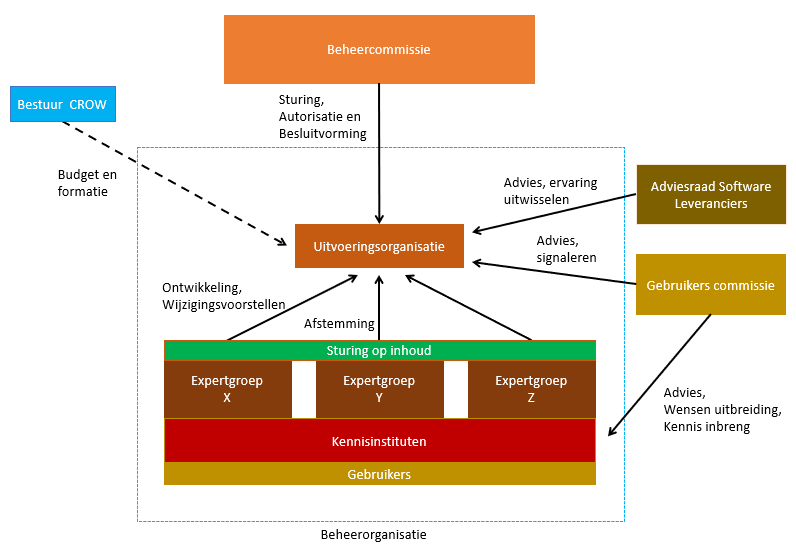
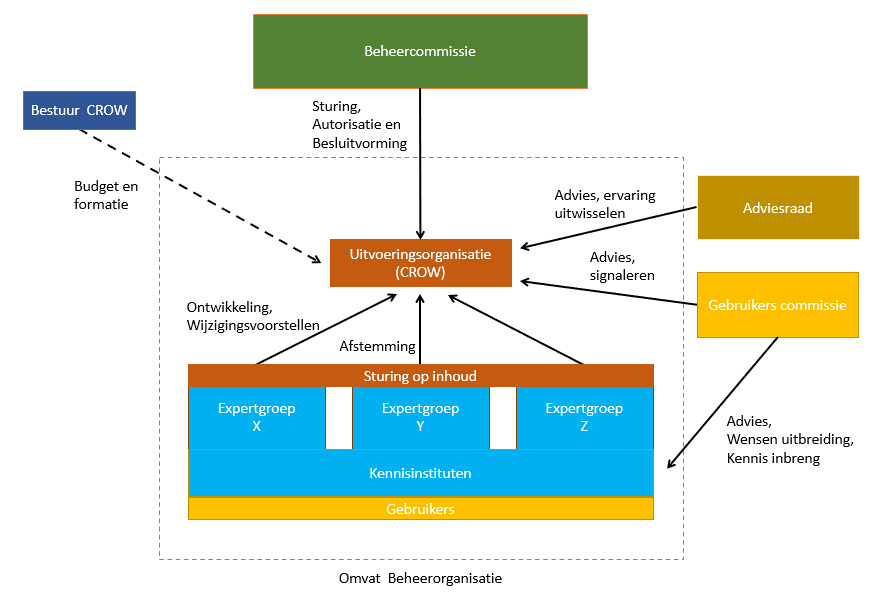
Nieuwe versie voor beheercommissie ter beoordeling

diff --git a/ontwikkeling/beheerplan/hoofdstukken/h5.md b/ontwikkeling/beheerplan/hoofdstukken/h5.md
@@ -6,41 +6,49 @@ Voor het beheer van IMBOR en de ontwikkeling daarvan hebben we vaastgelegd dat d
 
 Om tot een nieuwe versie te komen worden er voorstellen geformuleerd in de vorm van Issue's. Deze komen in de beheeromgeving terecht en leiden tot een aangepaste werkversie van IMBOR. De issue's worden open gepubliceerd en staan ook open voor input. De beheerorganisatie is verantwoordelijk voor het bundelen van relevante issue's en deze te implementeren in het model. We spreken van een nieuwe formele release als alle wijzigingen in het model ook via de route van vaststelling zijn gegaan. Hoe deze route in zijn werk gaat staat helder omschreven in de volgende paragraaf bij de wijzigingsprocedure.
 
-Het streven is om geregeld een nieuwe formele versie van IMBOR vast te stellen waar de stakeholders mee kunnen werken. Dat kan een grote wijziging (major release) of indien belangenswaardig een kleinere wijziging (minor release) zijn. Een nieuwe versie van IMBOR betekent:
+Het streven is om geregeld een nieuwe formele versie van IMBOR vast te stellen waar de stakeholders mee kunnen werken. Dat kan een grote wijziging (major release) of indien belangenswaardig een kleinere wijziging (minor release) zijn. De timing van de releases wordt duidelijk gecommuniceerd en zo veel mogelijk afgestemd op de releasekalenders van de aanpalende standaarden. Een volledig gelijktrekken van de lease kalender is gezien de omvang een utopie en ook niet nodig. Een nieuwe versie van IMBOR betekent:
 
 * Dat issues worden verwerkt in de beheeromgeving van IMBOR (werkversie); 
 * Deze issue's inzichtelijk en openbaar zijn;
 * De formele wijzigingsprocedure is doorlopen;  
-* De nieuwe versie van IMBOR wordt wordt gepubliceerd; 
-* Voorafgaand aan publicatie wordt een open consultatieronde wordt gehouden;
+* De nieuwe versie van IMBOR wordt gepubliceerd; 
+* Voorafgaand aan publicatie een open consultatieronde wordt gehouden;
 * Alle technische documentatie is bijgewerkt;
 * De versie wordt aangeboden in de gecommuniceerde uitgifte vormen.
 
-## Uitvoering: wijzigingsprocedure
-Het beheer van IMBOR is onderhevig aan wijzigingen. Om alle verzoeken tot wijzigingen te registreren en te behandelen en eventueel door te voeren zijn er procedures opgesteld. Deze procedures doen recht aan een open en transparant versiebeleid. Onderstaand schema schetst op hoofdlijnen de manier waarop wijzigingen binnen komen, worden gecategoriseerd en vervolgens worden verwerkt in een nieuwe versie van IMBOR. In onderstaand schema is stapsgewijs weergegeven hoe dit proces er uit ziet.
+## Uitvoering: beheeractiviteiten
+Het beheer van IMBOR is onderhevig aan wijzigingen. Om alle verzoeken tot wijzigingen te registreren en te behandelen en eventueel door te voeren zijn er procedures opgesteld. Deze procedures doen recht aan een open en transparant versiebeleid. Onderstaand schema schetst op hoofdlijnen de primaire beheeractiviteiten waarbinnen de procedures vorm gegeven worden en die leiden tot een nieuwe versie van IMBOR.
 
-![Wijzigingsprocedure IMBOR](hoofdstukken/media/Wijzigingsprocedure2.png "Overzicht van de route die een wijzigingsverzoek af legt")
+![Primaire beheeractiviteiten IMBOR](hoofdstukken/media/Wijzigingsprocedure3.png "De 5 stappen die leiden tot een wijziging in IMBOR")
 
-### Formuleren en registreren
+<aside class="note" title="procedure schema's">
+Er zijn van de 5 primaire beheeractiviteiten ook procedure schema's gemaakt. Het voorstel is om deze in de bijlagen op te nemen.
+</aside>
 
+De bedoeling is dat alle stakeholders een voorstel tot wijziging kunnen indienen. Dat betekent alle groepen en vertegenwoordigers in de geschetste beheerorganisatie. Het in te dienen voorstel draagt bij aan een ontwikkeling of innovatie of verbetering van IMBOR. Dat kan dus ook een voorstel zijn die niet inhoudelijk is maar bijvoorbeeld organisatorisch van aard of een wijziging in de documentatie.
+
+### Registreren Issue's
+
+<!--
 <b>Wijzigingsvoorstel formuleren/indienen</b>
 De bedoeling is dat alle stakeholders een voorstel tot wijziging kunnen indienen. Dat betekent alle groepen en vertegenwoordigers in de geschetste beheerorganisatie. Het in te dienen voorstel draagt bij aan een ontwikkeling of innovatie of verbetering van IMBOR. Dat kan dus ook een voorstel zijn die niet inhoudelijk is maar bijvoorbeeld organisatorisch van aard of een wijziging in de documentatie.
 
-Het goed formuleren van het wijzigingsverzoek helpt bij de beoordeling en eventuele implementatie van het voorstel. De service manager van de uitvoeringsorganisatie kan hier bij helpen. 
+Het goed formuleren van het wijzigingsverzoek helpt bij de beoordeling en eventuele implementatie van het voorstel. De service manager van de uitvoeringsorganisatie kan hier bij helpen.-->
 
-<b>Registratie in GitHub</b>
-Alle voorstellen tot wijziging worden in de ontwikkelomgeving GitHub geregistreerd. Dit is een ontwikkelomgeving dat wordt beheerd door het CROW (specifiek de IMBOR architect). Alle voorstellen worden hier als Issue in geregistreerd en gelabeld. De registratie van meldingen die via mail zijn binnen gekomen of via de website zijn ingediend worden door de service manager ingevoerd en opgevolgd. In gevallen dat een indiener beschikking heeft over een GitHub account en autorisatie heeft kan deze de issues rechtstreeks in GitHub indienen. Als bij registratie onduidelijkheid is over de beschrijving kan verduidelijking worden gevraagd aan de indiener.
+#### Wijzigingen indienen  
+Alle voorstellen tot wijziging worden in de ontwikkelomgeving GitHub geregistreerd. Dit is een ontwikkelomgeving dat wordt beheerd door het CROW (specifiek de IMBOR architect). Alle voorstellen worden hier als Issue in geregistreerd en gelabeld. De registratie van meldingen die via mail zijn binnen gekomen of via de website zijn ingediend worden door de service manager ingevoerd en opgevolgd. In gevallen dat een indiener beschikking heeft over een GitHub account en autorisatie heeft kan deze de issues rechtstreeks in GitHub indienen. 
 
 Een handleiding van hoe GitHub kan worden gebruikt is beschreven in Bijlage 1
 
-<b>Impact beoordelen/toekennen</b>
-Van elk Issue wordt de impact beoordeeld. De impact kent drie categorieën: Laag, Middel, Hoog. De beoordeling van de impact gebeurt door de uitvoeringsorganisatie. Na de beoordeling en juiste labeling van het issue gaat het verder de procedure in. De indiener krijgt van de uitvoeringsorganisatie een korte terugkoppeling en motivering op de prioritering en de impact. Hieronder kort de richtlijnen voor prioritering.
+#### Vraag analyseren  
+Er is een eerste analyse van het verzoek tot wijziging nodig. Als bij registratie onduidelijkheid is over de beschrijving kan verduidelijking worden gevraagd aan de indiener. Als helder is wat er met het verzoek aan wijziging wordt bedoelt zal het als Issue worden geregistreerd en opgepakt ten behoeve van een beoordeling: Het wordt opgepakt in de volgende fase of het issue wordt verworpen. In alle gevallen wordt de indiener op de hoogte gebracht. 
 
-Het is ook mogelijk dat Issue's een categorie of label krijgen die niet direct van invloed is op het IMBOR model. Dit is bijvoorbeeld als er een (implementatie)vraag komt of als er iets in de documentatie moet worden aangepast. Ook deze "issue's" worden wel geregistreerd zodat er een kennis database ontstaat. 
+### Beoordelen en clusteren
 
-#### Impact bepalen
+#### Impact analyse op verzoek tot wijziging
+Van elk Issue wordt de impact beoordeeld. De impact kent drie categorieën: Laag, Middel, Hoog. De beoordeling van de impact gebeurt door de uitvoeringsorganisatie. Na de beoordeling en juiste labeling van het issue gaat het verder de procedure in. De indiener krijgt van de uitvoeringsorganisatie een korte terugkoppeling en motivering op de impact. Hieronder kort de richtlijnen voor bepalen van de impact. Als er twijfel over de impact ontstaat wordt er door de uitvoeringsorganisatie ge-escaleerd naar benodigde andere expertise.
 
-Via [GitHub issues](https://github.com/Stichting-CROW/imbor/issues) worden opmerkingen en suggesties verzameld voor het verbeteren van het IMBOR. Wanneer issues binnenkomen worden deze gelabeld (inhoudelijk of modelmatig, vakdiscipline, bug of wens) en wordt de impact bepaald:</li>
+Via [GitHub issues](https://github.com/Stichting-CROW/imbor/issues) worden dus opmerkingen en suggesties verzameld voor het verbeteren van het IMBOR. De impact wordt  door een aantal kenmerken bepaald:</li>
    <ul><li>	<b>Impact 1 Laag:</b> te verwerken door de uitvoeringsorganisatie IMBOR. Dit betreft bijvoorbeeld:</li>
        <ul><li>	Aanvullen/aanscherpen van vocabulair (definities van objecttypen en attributen)</li>
        <li>	Wijzigingen in het specifiek toekennen van domeinwaarden aan objecttypes</li>
@@ -55,7 +63,7 @@ Via [GitHub issues](https://github.com/Stichting-CROW/imbor/issues) worden opmer
        <li>	 Wijzigen van bestaande minimale datasets</li>
        <li>	Wijzigingen in de bestaande relaties met andere modellen</li>
        <li>	Toevoegen van nieuwe minimale datasets</li></ul>
-   <li>	<b>Impact 3 Hoog:</b> te bespreken met een Expertcommissie of in de adviescommissie software leveranciers en vervolgens (indien nodig bespreken en prioriteren) in de beheercommissie IMBOR. Dit betreft bijvoorbeeld:</li>
+   <li>	<b>Impact 3 Hoog:</b> te bespreken met een Expertcommissie en vervolgens (indien nodig bespreken en prioriteren) in de beheercommissie IMBOR. Dit betreft bijvoorbeeld:</li>
        <ul><li>	Nieuwe vakdisciplines</li>
        <li>	Aanvullingen of wijzigingen in de structuur of de modelleringsprincipes</li>
        <li>	Nieuwe relaties met andere modellen</li>
@@ -68,11 +76,22 @@ Via [GitHub issues](https://github.com/Stichting-CROW/imbor/issues) worden opmer
           <li>	Kwaliteitsbeleid</li>
           <li>	Wijzigingsbeleid en -procedures</li></ul></ul></ul>
 
-Het labelen en toekennen van impact gebeurd door de uitvoeringsorganisatie. Hier wordt ook altijd terugkoppeling en motivatie over gegeven naar de indiener. Als er twijfel over de impact ontstaat wordt er door de uitvoeringsorganisatie ge-escaleerd naar benodigde andere expertise.
+#### labelen van Issue's
+Wanneer issues binnenkomen en de impact is bepaald worden deze gelabeld (inhoudelijk of modelmatig, vakdiscipline, bug of wens) Het labelen keeft vooral een functie voor de uitvoeringsorganisatie en ondersteunt het operationele proces van verwerken en clusteren van Issue's die gezamelijk worden opgepakt. Hier wordt ook altijd terugkoppeling en motivatie over gegeven naar de indiener.
 
-#### Feedbackprocedure
-Op verschillende manieren krijgen de betrokkenen feedback op de wijzigingen die zijn ingediend:
+Het is ook mogelijk dat Issue's een categorie of label krijgen die niet direct van invloed is op het IMBOR model. Dit is bijvoorbeeld als er een (implementatie)vraag komt of als er iets in de documentatie moet worden aangepast. Ook deze "issue's" worden wel geregistreerd zodat er een kennis database ontstaat. 
 
+#### groeperen van Issue's
+Voor het operationele proces kan het handig zijn om sommige issue's te groeperen en te clusteren. Het is voor te stellen dat er verzoeken worden ind=gediend die elkaar raken of tegen spreken. het groeperen geeft de uitvoeringsorganisatie het overzicht om de verzoeken op een gestructureerde manier aan te pakken. Groeperen kan ten behoeve van:
+* Dezelfde vakdiscipline;
+* Projectmatige aanpak;
+* Inhoud van dezelfde Release;
+* etc. 
+
+### Reviewen commissies tot voorstel
+
+#### Reviewen van Issue's
+Alle Issue's in GitHub worden voortdurend gereviewed. Dit is iets wat de uitvoeringsorganisatie op pakt. Bij het reviewen wordt ook een oplossingsvoorstel gemaakt per issue of worden verbanden gelefgd met andere voorstellen. Op verschillende manieren krijgen de betrokkenen feedback op de wijzigingen die zijn ingediend:
 <li>Opmerkingen en suggesties voor het verbeteren en doorontwikkelen van IMBOR worden ook verzameld in de reguliere overleggen met het gebruikerscommissie, de adviescommissie softwareleveranciers, de beheercommissie, de expertcommissies en en de overige contacten van de uitvoeringsorganisatie IMBOR met de markt. Ook deze opmerkingen en suggesties worden volgens dezelfde procedure als GitHub-issues gelabeld als de impact wordt bepaald.</li>
 <li>Binnen 1 maand na indienen van de issue op GitHub wordt door de uitvoeringsorganisatie IMBOR de issue gelabeld en wordt de impact bepaald (zie administratieve procedure in bijlage 1). </li>
 <li>Voor issues met ‘Impact 1 Laag’ wordt door het uitvoeringsorganisatie IMBOR binnen 2 maanden in GitHub beantwoord hoe en wanneer de opmerking/suggestie in IMBOR wordt verwerkt.</li>
@@ -80,33 +99,43 @@ Op verschillende manieren krijgen de betrokkenen feedback op de wijzigingen die 
 <li>Issues met ‘Impact 3 Hoog’ worden binnen een half jaar besproken in de inhoudelijke expertcommissies en adviescommissie softwareleveranciers en vervolgens via consultatie getoetst. Indien nodig worden de issues besproken in de beheercommissie. Na vaststelling worden de issues door de uitvoeringsorganisatie IMBOR binnen 1 maand in de GITHub beantwoord en wordt uitgelegd hoe en wanneer de opmerkingen/suggesties in IMBOR worden verwerkt.   </li>
 <li>Niet-relevante vragen worden snel uitgefilterd om de inzet efficient te houden.</li></ol>
 
-### Verwerken tot voorstellen
-Als de wijzigingsverzoeken zijn beoordeeld dan kunnen ze worden verwerkt tot concrete voorstellen. De makkelijkste zijn de voorstellen met impact laag. Deze kunnen met motivatie van de uitvoeringsorganisatie meteen verwerkt worden tot voorstel voor een uitgewerkte wijziging in IMBOR. Voor verzoeken met impact middel en hoog lopen we een andere route:
+#### Verwerken tot voorstellen
+Als de wijzigingsverzoeken zijn beoordeeld en gereviewd dan kunnen ze worden verwerkt tot concrete voorstellen. Deze staan altijd in relatie met een geplande (minor of major) release van IMBOR.
 
-<b>Impact Middel</b>
-Alle voorstellen met impact middel worden gebundeld op basis van de inhoud. De wijzigingsverzoeken worden besproken en behandeld met de betreffende vakinhoudelijke expertcommissies. Dit kan via direct contact of in regulier overleg. De uitvoeringsorganisatie en experts bepalen samen de impact en prioritering van de verzoeken. Als er op inhoud akkoord is en het past binnen de release kalender en de begroting worden de verzoeken concreet uitgewerkt tot een voorstel.
+De makkelijkste zijn de voorstellen met <b>impact laag</b>. Deze kunnen met motivatie van de uitvoeringsorganisatie meteen verwerkt worden tot voorstel voor een uitgewerkte wijziging in IMBOR. Voor verzoeken met impact middel en hoog lopen we een andere route:
+
+Alle voorstellen met <b>impact middel</b> worden gebundeld op basis van de inhoud. De wijzigingsverzoeken worden besproken en behandeld met de betreffende vakinhoudelijke expertcommissies. Dit kan via direct contact of in regulier overleg. De uitvoeringsorganisatie en experts bepalen samen de impact en prioritering van de verzoeken. Als er op inhoud akkoord is en het past binnen de release kalender en de begroting worden de verzoeken concreet uitgewerkt tot een voorstel.
 
 De inhoudelijk projectleider organiseert voor zijn eigen vakdiscipline de bundeling van wijzigingsverzoeken en zorgt voor het bijschakelen van expertise en afstemming met externen en andere standaarden.
 
 Wijzigingen die geparkeerd worden of door voortschrijdend inzicht niet correct zijn kunnen aangepast worden en lopen de route verder volgens schema. Zo kan bij nader inzien de impact groter zijn dan gedacht of op basis van omvang de bundel wijzigingen niet in de begroting passen. Ook kan via een bepaalde route worden besloten dat een wijziging vervalt omdat het bijvoorbeeld niet (meer) past in de architectuur of om ander reden niet in IMBOR kan landen.
 
-<b>Impact Hoog</b>
-Voorstellen met impact hoog lopen als het ware dezelfde route maar behoeven een extra toets op begroting en roadmap. Het kan zijn dat extra financiering nodig is of een wijziging projectmatig moet worden opgepakt. Mogelijk vergt dit gesprekken met financiers en bestuur CROW voor extra financiering. De programma manager speelt een rol in de bewaking van de budgetten en de roadmap en stemt af met de beheercommissie.
+Voorstellen met </b>impact hoog</b> lopen als het ware dezelfde route maar behoeven een extra toets op begroting en roadmap. Het kan zijn dat extra financiering nodig is of een wijziging projectmatig moet worden opgepakt. Mogelijk vergt dit gesprekken met financiers en bestuur CROW voor extra financiering. De programma manager speelt een rol in de bewaking van de budgetten en de roadmap en stemt dit af met de beheercommissie.
 
-### Van voorstel naar een vastgestelde wijziging
-Op reguliere basis worden de voorstellen voorgelegd aan de leveranciers en de gebruikers om te klankborden. Met leveranciers op basis van regulier overleg en met gebruikers door middel van publicatie en of een gebruikersdag en natuurlijk deelname aan de expertcommissies d.m.v. terugkoppeling. De feedback kan worden meegenomen en verwerkt in een aangepast voorstel indien de impact laag is. Blijkt na consultatie de impact dusdanig hoog of de implementatie van een voorstel niet haalbaar blijkt kan prioritering worden aangepast en het voorstel in een volgende versie worden meegenomen.
+#### Release bepalen
+Van alle voorstellen wordt gaandeweg het wijzigingsproces nagedacht of bundels van deze wijzigingen tot een release kunnen behoren. De richtlijn is dat een major release altijd gepaard gaat met een grote structurelr wijziging. De verwachting is dat er echter regelmatig minor releases worden gedaan om de aansluiting met aanpalende standaarden zo veel als mogelijk bij te werken of als de markt behoefte heeft aan directe verbeteringen in IMBOR. Het bepalen van het tyoe release zal voornamelijk door de beheerorganisatie worden voorgesteld aan de beheercommissie.
 
-<b>ubliceren voorstel</b>
-Als alle voorstellen zijn gerealiseerd en haalbaar zijn te verwerken wordt periodiek een pakket met wijzigingen in het IMBOR model als voorstel voor een nieuwe versie gepubliceerd. De beheercommissie draagt zorg voor het feit dat procedures op een afgesproken manier zijn gevolgd en er geen conflicten ontstaan met andere ontwikkelingen. Tevens wordt er in de beheercommissie ook gewaarborgd dat er geen extra conflicten ontstaan met andere standaard beheerders en dat er draagvlak is voor de wijzigingen bij de opdrachtgevers van IMBOR
+### Vaststellen nieuwe Release IMBOR
 
-<b>Vaststellen wijziging</b>
-De beheercommissie stelt de nieuwe versie van IMBOR formeel vast. Dit is het moment dat de nieuwe versie ook daadwerkelijk uitgeleverd en geïmplementeerd kan worden.
+#### verzamelen voorstel issue's
+Alle Voorstellen worden verzameld en tot een kandidaat release gemaakt. 
 
-<b>Aanpassen IMBOR</b>
-Een nieuwe versie van IMBOR kan worden ontwikkeld en uitgeleverd. Hierbij geld dat alle producten die verband houden met de nieuwe versie worden aangepast. (zie ook het hoofdstuk over versiebeleid)
+#### Versie gereed en voorleggen
+Op reguliere basis worden de voorstellen en daarmee kandidaat Release voorgelegd aan de adviescommissie en de gebruikers om te klankborden. Met adviescommissie op basis van regulier overleg en met gebruikers door middel van publicatie en of een gebruikersdag en natuurlijk deelname aan de expertcommissies d.m.v. terugkoppeling. De feedback kan worden meegenomen en verwerkt in een aangepast voorstel indien de impact laag is. Blijkt na consultatie de impact dusdanig hoog of de implementatie van een voorstel niet haalbaar blijkt kan prioritering worden aangepast en het voorstel in een volgende versie worden meegenomen.
 
-<b>Nieuwe standaard publiceren</b>
-Als alles is verwerkt kan de nieuwe standaard ook gepubliceerd worden en toegankelijk worden gemaakt voor gebruikers en leveranciers.
+#### Formaliseren Release voorstel
+Alle voorstellen voor de release waar geen noemenswaardig bezwaar op is gekomen worden geformaliseerd tot een nieuwe release. De beheercommissie stelt de nieuwe versie van IMBOR formeel vast. De beheercommissie draagt zorg voor het feit dat procedures op een afgesproken manier zijn gevolgd en er geen conflicten ontstaan met andere ontwikkelingen. Tevens wordt er in de beheercommissie ook gewaarborgd dat er geen extra conflicten ontstaan met andere standaard beheerders en dat er draagvlak is voor de wijzigingen bij de opdrachtgevers van IMBOR
+
+### Nieuwe versie doorvoeren en publiceren
+
+#### Doorvoeren 
+Dit is het moment dat de nieuwe versie ook daadwerkelijk uitgeleverd en geïmplementeerd kan worden. Daarmee wordt ook opdracht gegeven aan de uitvoeringsorganisatie om de laatste fase in te gaan en de release klaar te maken en wijzigingen door te voeren in het IMBOR model.
+
+#### Informeren
+Via communicatiekanalen van CROW wordt de markt en alle belanghebbenden geinfomreerd over de nieuwe release. Daarin wordt gecommuniceer wat de grootste wijzigingen zijn. De exacte wijzigingen tussen de versies wordt ook in detail in gitHub geregistreerd. E.e.e. is na te lezen in de technische documentatie van de nieuwe publicatie van de laatste versie.
+
+#### Publiceren
+Hierbij geld dat alle producten die verband houden met de nieuwe versie worden aangepast (zie ook het hoofdstuk over versiebeleid) en dat alle publicatie producten van IMBOR op de juiste wijze kunnen worden gedistribueerd.
 
 ## Documentatie
 De technische beschrijving van het IMBOR en het beheerplan IMBOR worden open gepubliceerd. Alle documentatie is te vinden via de website van CROW of via deGitHub omgeving.

diff --git a/ontwikkeling/beheerplan/hoofdstukken/h3.md b/ontwikkeling/beheerplan/hoofdstukken/h3.md
@@ -1,12 +1,12 @@
 # Strategie
-Dit hoofdstuk is er op gericht om een drietal elementen te benoemen die van belang zijn voor het invullen van de strategie. Het betreft in eerste instantie een structuur voor de besluitvorming van IMBOR. Deze moet zorgen dat er heldere lijnen zijn om de besluitvorming op te baseren. Hierbij rekening houdend met alle stakeholders en het kunnen ontwikkelen van beleid op het beheer van IMBOR. Daarbij is er duidelijk onderscheid tussen de borging van zeggenschap en de borging van beheerprocessen. Daarnaast is de visie op IMBOR een belangrijk element. We kijken naar de toekomst en hoe we kunnen inspelen op ontwikkelingen. Dit betreft ontwikkelingen op inhoud maar ook technologische ontwikkelingen. Als belangrijk laatste element van de strategie is het waarborgen van structurele financiering voor het beheer. De drie onderdelen worden hieronder verder uitgewerkt.
+Dit hoofdstuk is er op gericht om een drietal elementen te benoemen die van belang zijn voor het invullen van de strategie. Het betreft in eerste instantie de Gouvernance, een structuur voor de besluitvorming van IMBOR. Deze moet zorgen dat er heldere lijnen zijn om de besluitvorming op te baseren. Hierbij rekening houdend met alle stakeholders en het kunnen ontwikkelen van beleid op het beheer van IMBOR. Daarbij is er duidelijk onderscheid tussen de borging van zeggenschap en de borging van beheerprocessen. Daarnaast is de visie op IMBOR een belangrijk element. We kijken naar de toekomst en hoe we kunnen inspelen op ontwikkelingen. Dit betreft ontwikkelingen op inhoud maar ook technologische ontwikkelingen. Als belangrijk laatste element van de strategie is het waarborgen van structurele financiering voor het beheer. De drie onderdelen worden hieronder verder uitgewerkt.
 
-## Besluitvorming
-De primaire doelgroep van het IMBOR zijn de beheerders van gemeenten, provincies, waterschappen, Rijkswaterstaat en andere terreinbeheerders. Het collectief van beheerders van de openbare ruimte zijn daarmee de eigenaren van de standaard. Deze doelgroep is sturend in de ontwikkeling van IMBOR. Deze groep wordt vertegenwoordigd in de <b>Beheercommissie</b> IMBOR. Zij zetten de strategie voor IMBOR uit voor een brede implementatie in de sector.
+## Inrichting Governance
+De primaire doelgroep van het IMBOR zijn de beheerders van gemeenten, provincies, waterschappen, Rijkswaterstaat en andere terreinbeheerders. Het collectief van beheerders van de openbare ruimte zijn daarmee de eigenaren van de standaard. Deze doelgroep is sturend in de ontwikkeling van IMBOR. Deze groep wordt vertegenwoordigd in een <b>Beheercommissie</b> IMBOR. Zij zetten de strategie voor IMBOR uit voor een brede implementatie in de sector.
 
 Daarnaast is er nog een secundaire doelgroep die belang heeft bij IMBOR. Dit zijn de dienstverlenende organisaties die in opdracht handelen voor voor de primaire doelgroep. We praten hier over bijvoorbeeld (software)leveranciers, aannemers, adviesbureaus en inspectiebureaus. Zij moeten in de praktijk het IMBOR adopteren om het werk goed te doen zodat ook de businesscase wordt gehaald. Deze groep wordt vertegenwoordigd in de <b>Adviesraad</b>.
 
-Daarnaast kennen bovengenoemde doelgroepen ook de eindgebruikers. De mensen die het instrument gebruiken om hun werk voor elkaar te krijgen. Deze IMBOR community is diffuus en steeds wisselend. De contacten met de eindgebruikers worden georganiseerd door de <b>Gebruikerscommissie</b>. Op deze wijze kunnen alle gebruiker hun wensen en behoeften voor de IMBOR Standaard kenbaar maken.
+Daarnaast kennen bovengenoemde doelgroepen ook de eindgebruikers. De mensen die het instrument gebruiken om hun werk voor elkaar te krijgen. Deze IMBOR community is diffuus en steeds wisselend. De contacten met de eindgebruikers worden georganiseerd door de <b>Gebruikerscommissie</b>. Op deze wijze kunnen alle gebruikers hun wensen en behoeften voor de IMBOR Standaard kenbaar maken.
 
 Verbeteringen, actualiseringen en nieuwe ontwikkelingen worden geïmplementeerd in de IMBOR standaard door <b>Expertcommissies</b>. Hierin zitten de vakinhoudelijke en/of informatie technische experts. Deze experts kunnen uit alle bovengenoemd doelgroepen voortkomen. 
 
@@ -14,13 +14,13 @@ Al de genoemde groepen zijn op een of andere manier vertegenwoordigd in de organ
 
 ![Governance IMBOR](hoofdstukken/media/sturing.png "relatie tussen de drie groepen")
 
-## Organisatiestructuur
+## Organisatiestructuur voor beheer IMBOR
 
 CROW heeft als beheerder een structuur voor het beheer van IMBOR ingericht waarbij de beheerorganisatie de kern vormt voor het procesmatige beheren van het model. Alle andere belanghebbenden zoals hierboven beschreven krijgen een actieve rol om de beschreven governance ook daadwerkelijk te waarborgen. Onderstaande afbeelding geeft een overzicht van deze organisatiestructuur.
 
 ![organisatiestructuur IMBOR](hoofdstukken/media/organisatiestructuur_beheer_IMBOR.png "Organisatiestructuur IMBOR met beheerorganisatie centraal")
 
-IMBOR staat natuurlijk niet op zichzelf. Er zijn ook al dan niet verplichte informatiemodellen in vakoverstijgende domeinen. Standaarden die in het algemeen worden beheerd door andere kennisinstituten. Voor het borgen van IMBOR is afstemming met deze organisaties essentieel. Deze afstemming is geïntegreerd in het beheer door verantwoordelijke organisaties desgewenst ook in de organisatiestructuur te laten deelnemen.
+IMBOR staat natuurlijk niet op zichzelf. Er zijn ook al dan niet verplichte informatiemodellen in vakoverstijgende domeinen. Standaarden die in het algemeen worden beheerd door andere kennisinstituten zoals Rioned en Geonovum. Voor het borgen van IMBOR is afstemming met deze organisaties essentieel. Deze afstemming is geïntegreerd in het beheer door verantwoordelijke organisaties desgewenst ook in de organisatiestructuur bij de expertcommissies te laten deelnemen.
 
 <!-- oude notitie
 Nog toetsen op de eisen">
@@ -82,7 +82,7 @@ De volgende concrete taken zijn onderkend:
 In onderstaande paragraven wordt nader ingegaan op de rol van de diverse commissies in relatie tot de uitvoeringsorganisatie.
 
 #### Expertcommissies
-Deelnemers in de expertcommissies zijn inhoudelijk deskundigen die een afspiegeling vormen van één of meerdere vakdisciplines binnen IMBOR. De samenstelling van de groep kan variëren afhankelijk van het onderwerp dat ter sprake komt. De uitvoeringsorganisatie is verantwoordelijk voor het in leven roepen van de expertcommissies en doet dat door leden voor te dragen of via een oproep leden te werven. Het is de bedoeling dat alle expertcommissies tezamen de vakdisciplines van IMBOR af kunnen dekken. Expertexpertcommissies kunnen zelf een voorzitter kiezen of er één toegewezen krijgen vanuit de uitvoeringsorganisatie. De uitvoeringsorganisatie is verantwoordelijk voor het bewaken van het proces en het vastleggen en communiceren van de inhoud van bijeenkomsten van de expertcommissies.
+Deelnemers in de expertcommissies zijn inhoudelijk deskundigen die een afspiegeling vormen van één of meerdere vakdisciplines binnen IMBOR. De samenstelling van de groep kan variëren afhankelijk van het onderwerp dat ter sprake komt. De uitvoeringsorganisatie is verantwoordelijk voor het in leven roepen van de expertcommissies en doet dat door leden voor te dragen of via een oproep leden te werven. Het streven is om minimaal twee tot drie leden per expertcommissie te hebben. Het is de bedoeling dat alle expertcommissies tezamen de 10 vakdisciplines van IMBOR af kunnen dekken. Expertexpertcommissies kunnen zelf een voorzitter (trekker of initiatiefnemer) kiezen of er één toegewezen krijgen vanuit de uitvoeringsorganisatie. De uitvoeringsorganisatie is verantwoordelijk voor het bewaken van het proces en het vastleggen en communiceren van de inhoud van bijeenkomsten van de expertcommissies.
 
 Bij het samenstellen van de expertcommissies is het wenselijk om zo veel mogelijk de bestaande organisaties die initiatieven tonen in standaardisatie op onderwerpen te betrekken. Hiermee wordt het draagvlak en de betrokkenheid vergroot. De expertcommissies komen alleen bijeen als er ook daadwerkelijk wijzigingen op het programma staan. De verwachting is dat er zowel expertgroepen zullen zijn die actief zijn en regulier overleggen over ontwikkelingen als expertcommissies die een slapend karakter hebben. Er zijn geen bijeenkomsten als er niets is te bespreken. De operationele invulling kan ook per commissie verschillen. Er is vanuit de uitvoeringsorganisatie een verantwoordelijke per expertcommissie benoemd zodat het hele spectrum van IMBOR afgedekt wordt door inhoudelijke expertise.
 
@@ -101,6 +101,10 @@ Er is een verdeling gemaakt in de vakdisciplines van IMBOR om deze zo goed als m
 
 <div class="issue" data-number="940"></div>
 
+<aside class="note" title="
+De rol van het bestuur CROW zou helder moeten zijn. Een beschrijving hiervan opnemen?">
+</aside>
+
 <!--
 ### CROW bestuur
 
@@ -112,13 +116,14 @@ De volgende concrete taken zijn onderkend:
 * Zorgen voor de governance van IMBOR met de sector (via Raad van Toezicht en SAR). -->
 
 #### Beheercommisie
-Dit is een commissie die besluit over het vaststellen van wijzigingen op de bestaande standaard. Zij houdt toezicht op de kwaliteit en het draagvlak voor de substantiële wijzigingen in IMBOR. Deze groep vertegenwoordigt de doelgroep die strategisch belang heeft bij IMBOR. Dat zijn zowel gebruikersorganisaties als leveranciers, kennisinstellingen en adviesbureaus. Door de brede samenstelling van de commissie is deze hiermee ook een borging voor een sector breed gedragen versie van IMBOR.  
+Dit is een commissie die besluit over het vaststellen van wijzigingen op de bestaande standaard. Zij houdt toezicht op de kwaliteit en het draagvlak voor de substantiële wijzigingen in IMBOR en maakt strategische keuzes. Deze groep vertegenwoordigt de doelgroep die strategisch belang heeft bij IMBOR. Dat zijn zowel gebruikersorganisaties als leveranciers, kennisinstellingen en adviesbureaus. Door de brede samenstelling van de commissie is deze hiermee ook een borging voor een sector breed gedragen versie van IMBOR.
 
 De volgende concrete taken zijn onderkend:
 * Toetsen en bekrachtigen van wijzigingsadviezen beheerorganisatie;
+* Houd toezicht op inkomsten en uitgaven van de financiering IMBOR;
 * Voorgedragen wijzigingen beoordelen voor vaststelling;
 * Delegeren kleine wijzigingen aan de beheerorganisatie;
-* Vaststellen van wijzigingsvoorstellen en uitbreidingen voor de standaarden;
+* Evalueren en Vaststellen van wijzigingsvoorstellen en uitbreidingen voor de standaarden;
 * Controle op de procesgang van het opstellen van wijzigingsvoorstellen;
 * Besluiten tot het beschikbaar stellen van wijzigingsvoorstellen voor publieke consultatie;
 * Escalatieniveau voor conflicten tussen uitvoeringsorganisatie en expertcommissies;
@@ -127,14 +132,14 @@ De volgende concrete taken zijn onderkend:
 <div class="issue" data-number="1211"></div>
 
 #### Adviescommissie
-In deze groep hebben vertegenwoordigers van advies- en ingenieursbureaus, kennispartners, software leveranciers en andere IT-dienstverleners zitting die betrokken zijn bij de implementatie van IMBOR. Initiatief van dit overleg ligt bij de uitvoeringsorganisatie. Indien meer dan drie leveranciers een extra overleg willen invoeren is dit mogelijk mits iedereen wordt uitgenodigd. De adviescommissie heeft een adviserend karakter en beslist niet. De adviescommissie kiest een voorzitter uit hun midden. De de programmamanager is verantwoordelijk voor een goede vastlegging. De vastlegging wordt gecommuniceerd naar alle leden van het overleg. Ook indien ze niet aanwezig zijn geweest. De software leveranciers kunnen ook betrokken worden als doorgeefluik namens de gebruikers.
+In deze groep hebben vertegenwoordigers van advies- en ingenieursbureaus, kennispartners, software leveranciers en andere IT-dienstverleners zitting die betrokken zijn bij de implementatie van IMBOR. De adviescommissie heeft een adviserend karakter met betrekking tot technische implementatie en toepassingen aan de beheercommissie en beslist niet. Initiatief van dit overleg ligt bij de uitvoeringsorganisatie. Indien meer dan drie leveranciers een extra overleg willen invoeren is dit mogelijk mits iedereen wordt uitgenodigd. De adviescommissie kiest ook een voorzitter uit hun midden. De de programmamanager is verantwoordelijk voor een goede vastlegging. De vastlegging wordt gecommuniceerd naar alle leden van het overleg. Ook indien ze niet aanwezig zijn geweest. De adviescommissie kan ook betrokken worden als doorgeefluik namens de gebruikers.
 
 De volgende concrete taken zijn onderkend:
 * Ervaringen uitwisselen rondom implementatie en toepassing van IMBOR en delen van ervaringen en geluiden van de gebruikers;
 * Potentiële problemen bij de implementatie en de toepassing van IMBOR vroegtijdig signaleren, bespreken, zo mogelijk oplossen en zo nodig advies uitbrengen hierover aan de uitvoeringsorganisatie;
 * Wensen voor toekomstige uitbreidingen signaleren en advies hierover uitbrengen aan de uitvoeringsorganisatie.
 
-<aside class="note" title="De invulling van de adviescommissie software leveranciers is min of meer de huidige groep software leveranciers. Doordat de adviescommissie breder is kunnen we ook andere partijen deel laten nemen in deze commissie. Deelnemers en partijen controleren en eventueel toevoegen aan Bijlage 2">
+<aside class="note" title="De invulling van de adviescommissie is min of meer de huidige groep software leveranciers. Doordat de adviescommissie breder is kunnen we ook andere partijen deel laten nemen in deze commissie. Deelnemers en partijen controleren en eventueel toevoegen aan Bijlage 2">
 </aside>
 
 #### Gebruikerscommissie
@@ -229,9 +234,8 @@ Een initiatief van een aantal samenwerkende gemeenten, provincies en andere over
 
  Hierbij is het doel voor alle objecten, systemen en processen in het beheer van de openbare ruimte te komen tot een semantische standaard waarmee vastlegging, uitwisseling/deling, presentatie en validatie van data gestandaardiseerd kan plaatsvinden. 
 
-<aside class="note" title="
-We moete niet meer verwijzen naar CORE Borius. Ik vraag me af of we uberhaupt nog naar een programma moeten verwijzen vanuit IMBOR perspectief. Andersom misschien wel. Daarom beter om algemeen te houden">
-</aside>
+<!--
+We moete niet meer verwijzen naar CORE Borius. Ik vraag me af of we uberhaupt nog naar een programma moeten verwijzen vanuit IMBOR perspectief. Andersom misschien wel. Daarom beter om algemeen te houden"-->
 
 #### Opdrachtnemers
 Als applicaties losgekoppeld worden van de gegevens over het beheer in de openbare ruimte dan kan er betere marktwerking ontstaan. Immers maken alle processen in de keten gebruik van dezelfde ontologie in de objectenregistratie. Dit geeft opdrachtnemers zoals aannemers en software makers de kans om gebruik te maken van die specifieke informatie en daarop diensten te ontwikkelen voor specifieke processen binnen het hele asset management. 
@@ -250,9 +254,7 @@ Via het programma DHOOR wordt verkend hoe een landelijke samenwerking georganise
 Vooruitlopende op de kansen om financiering te kunnen regelen voor het beheer van IMBOR, wordt het IMBOR vanaf 2022 gratis als open standaard gepubliceerd onder de voorwaarde dat in de nabije toekomst een alternatief komt voor de financiering voor het beheer.
 
 <aside class="note" title="BOMOS eisen">
-De standaard heeft een <b>structurele</b> financiering voor beheer en implementatieondersteuning. Deze is nu nog niet geregeld.
-Wel ligt er een voorstel formatieplan om de globale kosten uit te halen. De inschattingen lopen kwa tijdsbesteding al richting de 300k
-Dit is een belangrijk aandachtspunt voor de beheercommissie. De vraag is even wat we er over moeten vermelden in het beheerplan op dit moment.
+De standaard heeft een <b>structurele</b> financiering voor beheer en implementatieondersteuning nodig. Deze is nu nog niet geregeld. Wel ligt er een voorstel formatieplan om de globale kosten voor beheer uit te halen. De inschattingen lopen kwa tijdsbesteding bij een optimale inrichting tegen de 300k. Dit is een belangrijk aandachtspunt voor de beheercommissie.
 </aside>
 
 <div class="issue" data-number="1212"></div>

diff --git a/ontwikkeling/beheerplan/hoofdstukken/inleiding.md b/ontwikkeling/beheerplan/hoofdstukken/inleiding.md
@@ -6,12 +6,9 @@ Het IMBOR beschrijft een uniforme naamgeving van objecttypen en hun onderlinge r
 
 Door gebruik te maken van IMBOR wordt objectgericht werken in de hele levenscyclus van de assets in de openbare ruimte mogelijk. Dit zorgt er voor dat er een bodem is gelegd om informatieverlies van gegevens in de verschillende levensfases van een object te minimaliseren. IMBOR sluit aan bij de verschillende andere informatiestandaarden die worden gebruikt zodat uitwisselbaarheid van informatie optimaal gefaciliteerd kan worden. Deze belofte is integraal onderdeel van het beheerproces van IMBOR. IMBOR is daarom ook breed toepasbaar.
 
-<aside class="note" title="we hebben de positionering IMBOR binnen CROW uitgewerkt. Dit moet nog resulteren in een goede landingspagina op de CROW site. Ik laat deze noot even staan omdat dit nog niet is gebeurd en we moeten nadenken of we uberhaupt verwijzen naar de website van het CROW.">
-</aside>
-
 CROW is de ontwikkelaar en beheerder van IMBOR. Het IMBOR is ontwikkeld onder begeleiding van een Projectgroep IMBOR, een IMBOR Klankbordgroep softwareleveranciers en een groot aantal inhoudelijke werkgroepen per vakgebied. 
 
-Dit beheerplan is opgesteld om de kaders vast te leggen voor een zorgvuldig en transparant beheerproces van het IMBOR zodat het als een volwaardige open standaard kan worden beheerd en aansluit bij de veranderende behoeften uit de makrt en de andere standaarden in het werkveld.
+Dit beheerplan is opgesteld om de kaders vast te leggen voor een zorgvuldig en transparant beheerproces van het IMBOR zodat het als een volwaardige open standaard kan worden beheerd en aansluit bij de veranderende behoeften uit de markt en de andere standaarden in het werkveld.
 
 ## Uitgangspunten beheer IMBOR
 Om te zorgen voor een zorgvuldig en transparant beheer, met oog voor de belangen van alle gebruikers, wordt het IMBOR beheerd volgens het Beheer- en Ontwikkelmodelmodel Open Standaarden ([BOMOS](https://gitdocumentatie.logius.nl/publicatie/bomos/fundament/)) van Forum voor Standaardisatie. Dit beheerplan gebruikt BOMOS als handleiding, structuur en toetsingskader om het beheer van IMBOR in te richten volgens de besluitvormingsstructuur en procedures die hierin worden beschreven.
@@ -40,4 +37,4 @@ Dit beheerplan is opgesteld met medewerking van alle betrokkenen en is ter goedk
 * Afronding en publicatie door CROW.
 
 ## Leeswijzer
-Hoofdstuk twee tot en met Zes beschrijft het beheer van IMBOR volgens de BOMOS structuur. De hoofdstukken zijn ingedeeld analoog aan de beschrijving van de in BOMOS genoemde activiteiten. We beginnen met de strategie waarin vooral de structuur van de besluitvorming is vastgelegd, gevolgd door Tactiek, Operationeel, Communicatie en Implementatie. Voor sommige onderdelen wordt verwezen naar andere bronnen om meer diepgang te geven of ter verbetering van de leesbaarheid.
+Hoofdstuk twee tot en met zes beschrijft het beheer van IMBOR volgens de BOMOS structuur. De hoofdstukken zijn ingedeeld analoog aan de beschrijving van de in BOMOS genoemde activiteiten. We beginnen met de strategie waarin vooral de structuur van de besluitvorming is vastgelegd, gevolgd door Tactiek, Operationeel, Communicatie en Implementatie. Voor sommige onderdelen wordt verwezen naar andere bronnen om meer diepgang te geven of ter verbetering van de leesbaarheid.

diff --git a/ontwikkeling/beheerplan/hoofdstukken/h4.md b/ontwikkeling/beheerplan/hoofdstukken/h4.md
@@ -11,13 +11,9 @@ De verwachting is dat de community groeit naarmate het gebruik toe neemt. Voor d
 
 Het IMBOR is op dit moment nog een niet verplichte open standaard. Het gebruik van het IMBOR wordt wel aangeraden door de [VNG](https://www.vngrealisatie.nl/producten/gebruik-bgt-bij-openbare-ruimte) om de administratieve gegevens over te beheren objecten in de buitenruimte te uniformeren en de uitwisseling tussen beheer openbare ruimte (BOR) en BGT zo optimaal mogelijk in te richten. Het CROW heeft hiervoor ook de nodige faciliteiten ingericht zodat IMBOR ook geimplementeerd kan worden.
 
-Een steeds groter groeiende groep van primaire stakeholders (Vooral gemeenten) hebben de samenwerking gezocht om de ontwikkeling van IMBOR te versnellen en de adoptie te vergroten. Dit uit zich door IMBOR ook standaard op te nemen in aanbestedingsvraagstukken en financiering te bieden voor een professioneel beheer van IMBOR. Daarnaast is er een programma [CORE-Borius](https://www.crow.nl/thema-s/management-openbare-ruimte/imbor/borius-initiatief-voor-een-betere-uitwisseling-van) opgestart om uniforme gegevensuitwisseling in de hele keten te bevorderen.
+Een steeds groter groeiende groep van primaire stakeholders (Vooral gemeenten) hebben de samenwerking gezocht om de ontwikkeling van IMBOR te versnellen en de adoptie te vergroten. Dit uit zich door IMBOR ook standaard op te nemen in aanbestedingsvraagstukken en financiering te bieden voor een professioneel beheer van IMBOR. Daarnaast is er een programma [DOOR](https://www.crow.nl/Onderwerpen/Assetmanagement-en-beheer-openbare-ruimte/Data-en-informatie/core-borius/) opgestart om uniforme gegevensuitwisseling in de hele keten te bevorderen.
 
-<aside class="note" title="Core Borius">
-Moeten we hier verwijzen naar het nieuwe programma Dhoor? Of laten we dit helemaal achterwege?
-</aside>
-
-<div class="issue" data-number="942"></div>
+Het doel is om IMBOR op de "Pas toe of leg uit" lijst te laten komen zodat de adoptie en erkenning bevordert wordt en de businesscases die aan IMBO ten grondslag liggen meer hun weg kunnen vinden.
 
 ## Rechtenbeleid
 

diff --git a/ontwikkeling/beheerplan/hoofdstukken/h6.md b/ontwikkeling/beheerplan/hoofdstukken/h6.md
@@ -3,6 +3,10 @@
 ## Promotie
 Informatie over het IMBOR wordt verstrekt via de [website](https://www.crow.nl/IMBOR) en via de nieuwsbrieven van CROW en CROW Essit.
 
+<aside class="note" title="Website">
+De website van CROW wordt aan gewerkt en derhalve klopt de bovenstaande link nog niet. Ook zullne we promotie moeten doen volgens nieuwsbrieven en andere gremia.
+</aside>
+
 ## Kennisuitwisseling
 Via een online community en bijeenkomsten van CROW worden gebruikers van IMBOR gefaciliteerd om hun opgedane kennis en ervaring over de implementatie en het gebruik van IMBOR met elkaar te delen en in te brengen in de beheerorganisatie.
 

diff --git a/ontwikkeling/beheerplan/hoofdstukken/samenvatting.md b/ontwikkeling/beheerplan/hoofdstukken/samenvatting.md
@@ -12,6 +12,6 @@ IMBOR is ontwikkeld door het CROW in samenwerking met gemeenten, provincies, sof
 | 0.6   |	19-07-2023  | 	    Uitwerken beheerplan met inrichting concrete beheerorganisatie	| John Joosten |
 | 0.7    |	10-10-2023   |  	Verwerken reviews en aanvullen hoofdstuk 4 t/m 7 | John Joosten |
 | 0.8   |   31-10-2023  |       Aanpassingen aan structuur en verwerken reviews | John Joosten  | 
-| 0.9   |   10-09-2024  |       Versie t.b.v voorleggen aan beheercommissie | John Joosten  | 
+| 0.9   |   01-10-2024  |       Versie t.b.v voorleggen aan beheercommissie | John Joosten  | 
 
 <div class="issue" data-number="939"></div>
